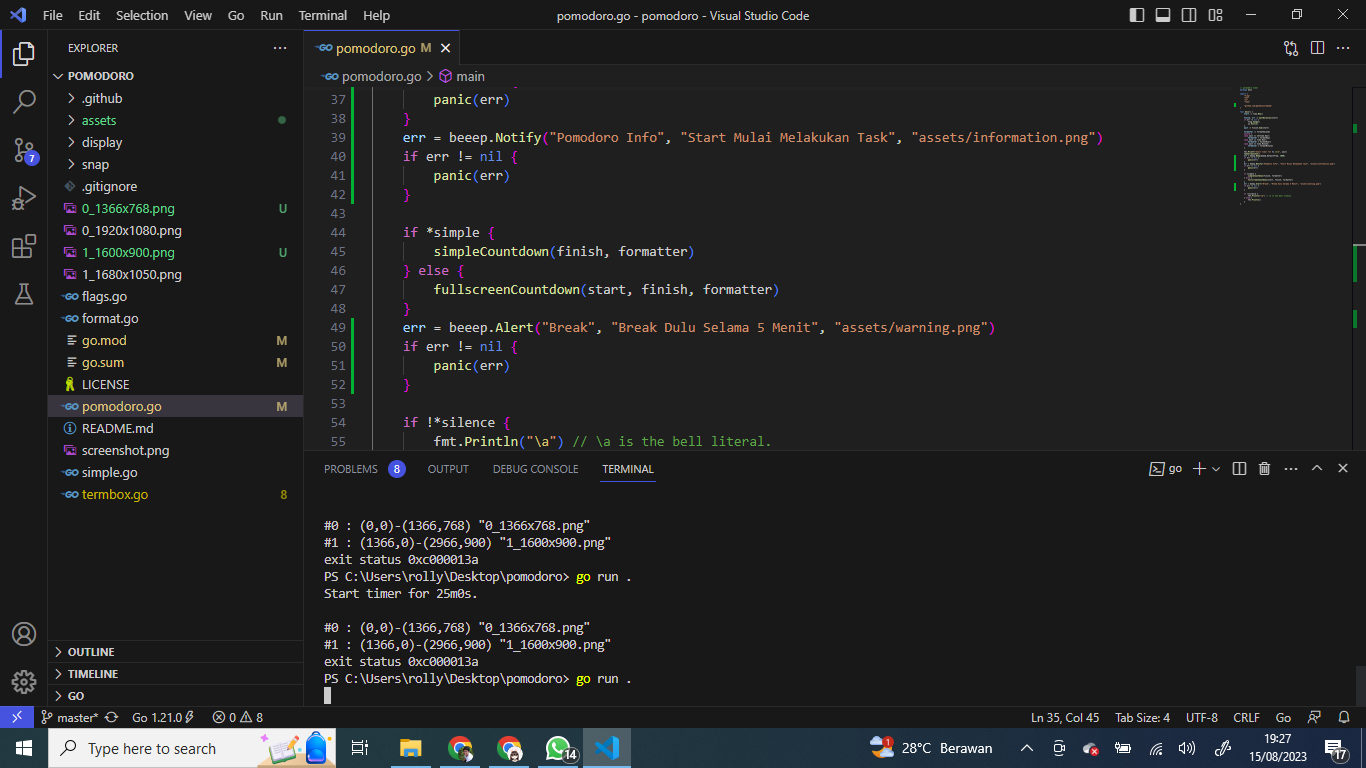
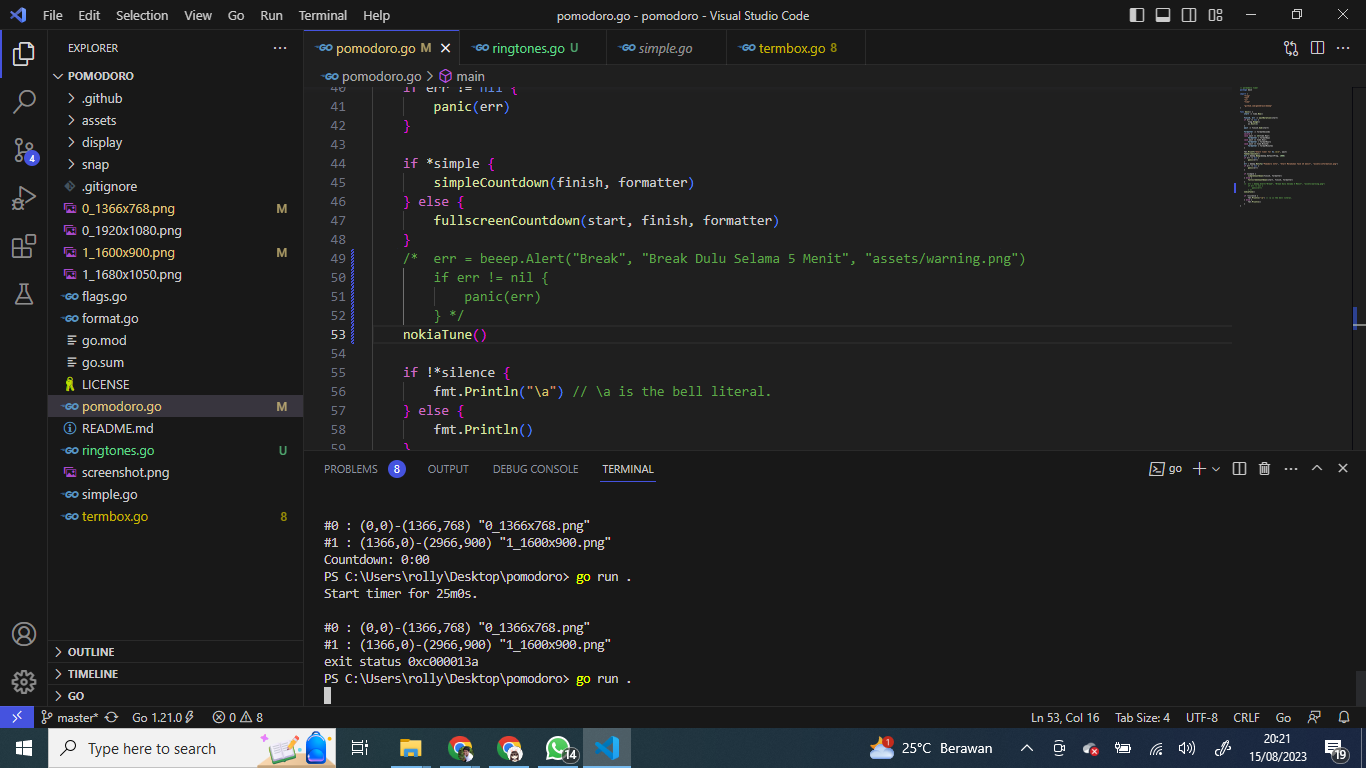
nokia tune

diff --git a/ringtones.go b/ringtones.go
@@ -1,0 +1,37 @@
+package main
+
+import (
+	"time"
+
+	"github.com/gen2brain/beeep"
+)
+
+func nokiaTune() {
+	beeep.Beep(1319, 133)
+	time.Sleep(143 * time.Millisecond)
+	beeep.Beep(1175, 133)
+	time.Sleep(143 * time.Millisecond)
+	beeep.Beep(740, 267)
+	time.Sleep(277 * time.Millisecond)
+	beeep.Beep(831, 267)
+	time.Sleep(277 * time.Millisecond)
+	beeep.Beep(1109, 133)
+	time.Sleep(143 * time.Millisecond)
+	beeep.Beep(988, 133)
+	time.Sleep(143 * time.Millisecond)
+	beeep.Beep(587, 267)
+	time.Sleep(277 * time.Millisecond)
+	beeep.Beep(659, 267)
+	time.Sleep(277 * time.Millisecond)
+	beeep.Beep(988, 133)
+	time.Sleep(143 * time.Millisecond)
+	beeep.Beep(880, 133)
+	time.Sleep(143 * time.Millisecond)
+	beeep.Beep(554, 267)
+	time.Sleep(277 * time.Millisecond)
+	beeep.Beep(659, 267)
+	time.Sleep(277 * time.Millisecond)
+	beeep.Beep(880, 533)
+	time.Sleep(543 * time.Millisecond)
+
+}

diff --git a/pomodoro.go b/pomodoro.go
@@ -46,10 +46,11 @@ func main() {
 	} else {
 		fullscreenCountdown(start, finish, formatter)
 	}
-	err = beeep.Alert("Break", "Break Dulu Selama 5 Menit", "assets/warning.png")
-	if err != nil {
-		panic(err)
-	}
+	/* 	err = beeep.Alert("Break", "Break Dulu Selama 5 Menit", "assets/warning.png")
+	   	if err != nil {
+	   		panic(err)
+	   	} */
+	nokiaTune()
 
 	if !*silence {
 		fmt.Println("\a") // \a is the bell literal.
